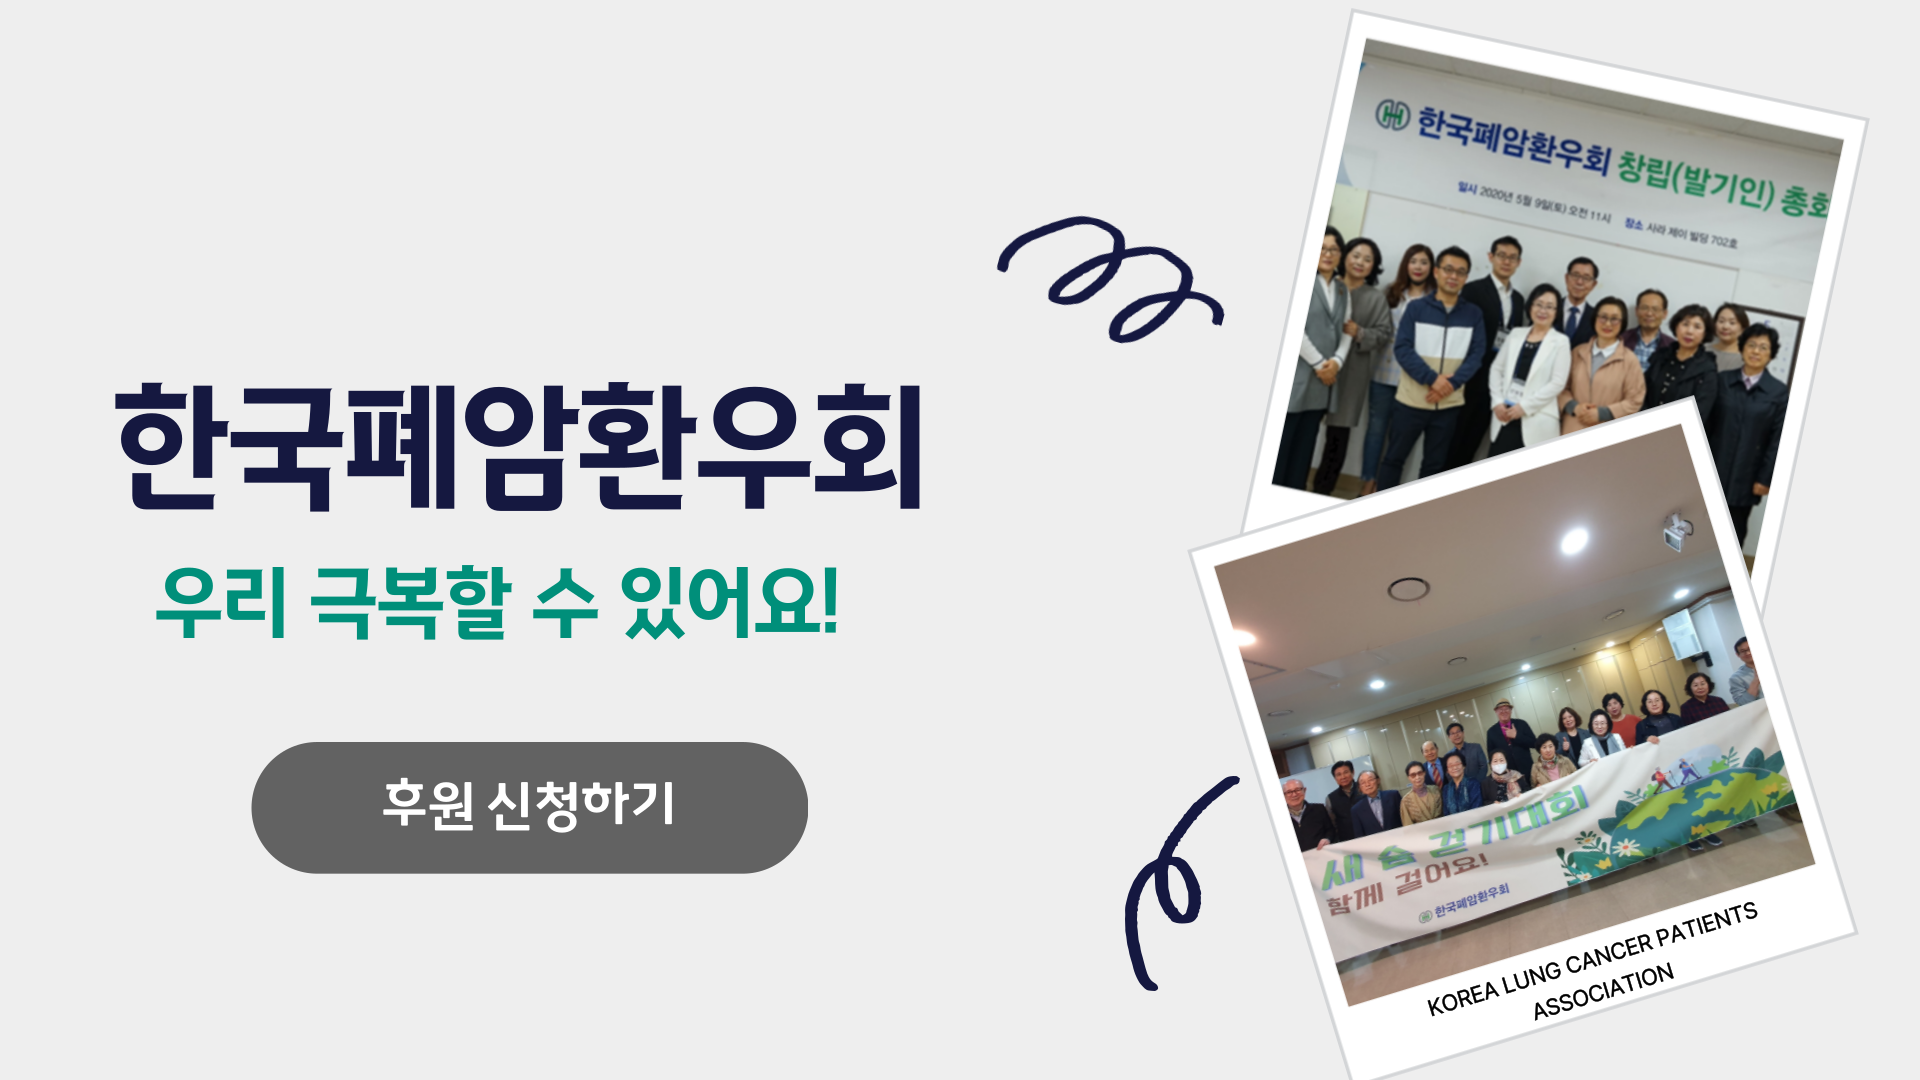
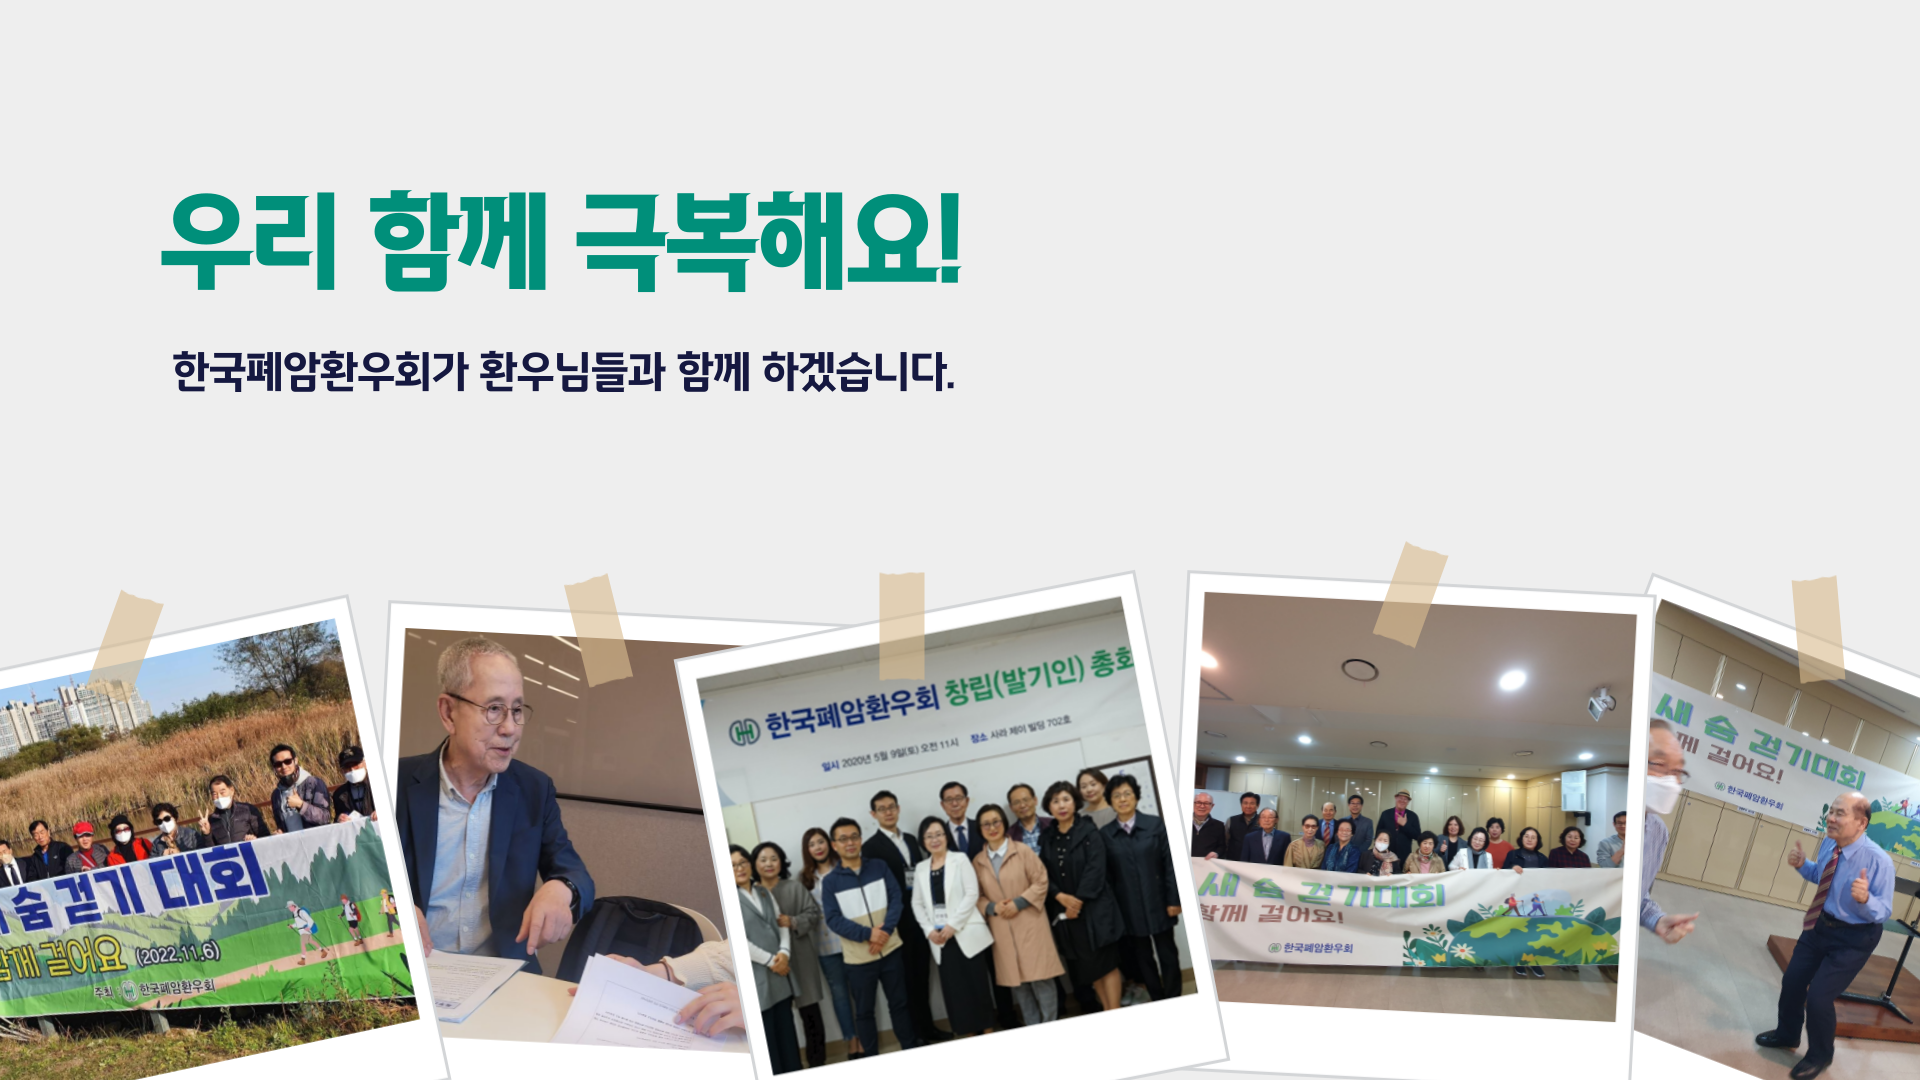
index에 상담하기 버튼 추가

diff --git a/CancerPatients/src/main/resources/templates/consult.html b/CancerPatients/src/main/resources/templates/consult.html
@@ -1,14 +1,15 @@
 <!DOCTYPE html>
-<html lang="ko">
+<html lang="ko" xmlns:th="http://www.thymeleaf.org">
 <head>
     <meta charset="UTF-8">
     <meta name="viewport" content="width=device-width, initial-scale=1.0">
     <link rel="stylesheet" href="https://cdn.jsdelivr.net/npm/bootstrap@5.3.0/dist/css/bootstrap.min.css">
     <link href="../resources/css/common.css" rel="stylesheet" />
-    <link href="../resources/css/index.css" rel="stylesheet" />
     <title>한국 폐암환우회</title>
+
 </head>
 <body>
+
 <div id="wrap">
     <nav class="navbar navbar-expand-sm">
         <div class="container-fluid">
@@ -69,52 +70,33 @@
     </nav>
     <div class="middle">
         <div class="sub_header">
-                <img src="../resources/images/index.png" class="index_img">
-                <div class="consult_outer">
-                    <a href="/consult">
-                        <img src="../resources/images/consult.png" class="consult_btn">
-                    </a>
+            <div class="sub_category">
+                <div class="sub_menu">
+                    <a href="/donation"><span class="sub_menu_text">후원 신청</span></a>
                 </div>
-            <div class="parent">
-                <p class="noti">공지사항</p>
-                <div class="first">[공지사항게시판들이 보여질 곳]</div>
-                <div class="second">[공지사항게시판들이 보여질 곳]</div>
-                <div class="third">[공지사항게시판들이 보여질 곳]</div>
+                <div class="sub_menu">
+                    <a href="/donation_manage"><span class="sub_menu_text">후원금 운영</span></a>
+                </div>
             </div>
 
         </div>
-        <div class="bottom_outer">
-            <div class="bottom_info">
-                <div class="outer">
-                    <img src="../resources/images/home.png" class="bottom_logo">
-                    <p class="keyword">주소</p>
-                    <p class="info">경기도 김포시 고촌읍 김포대로 340<br>1동 703호 (김포뉴시티)</p>
-                </div>
+        <div class="content_outer">
+            <div class="content">
+
+                상담 신청 페이지
 
 
-            </div>
-            <div class="bottom_info">
-                <div class="outer">
-                    <img src="../resources/images/phone.png" class="bottom_logo">
-                    <p class="keyword">전화</p>
-                    <p class="info">대표 : 010-4467-8275</p>
-                </div>
 
 
-            </div>
-            <div class="bottom_info">
-                <div class="outer">
-                    <img src="../resources/images/email.png" class="bottom_logo">
-                    <p class="keyword">메일</p>
-                    <p class="info">johnleee@naver.com</p>
-                </div>
 
             </div>
         </div>
+
     </div>
 </div>
 <footer>
     비영리법인 한국폐암환우회 | 고유번호 : 507- 82 -72452 | 주소 : 경기도 김포시 고촌읍 김포대로 340, 1동 703호 (김포뉴시티) | Tel : 010-4467-8275
 </footer>
+<script src="https://cdn.jsdelivr.net/npm/bootstrap@5.3.0/dist/js/bootstrap.bundle.min.js"></script>
 </body>
 </html>

diff --git a/CancerPatients/src/main/resources/static/css/index.css b/CancerPatients/src/main/resources/static/css/index.css
@@ -1,12 +1,12 @@
-.image_content{
-    background-color: #EFEFEF;
-    text-align: center;
-    width:100%;
-    height:50%;
-}
+/*.image_content{*/
+/*    background-color: #EFEFEF;*/
+/*    text-align: center;*/
+/*    width:100%;*/
+/*    height:50%;*/
+/*}*/
 
 .parent{
-    padding:2%;
+    padding:1%;
     height: 50vh;
 }
 
@@ -77,6 +77,14 @@
 }
 
 .index_img{
-    width:80%;
-    height:50%;
+    width:100%;
+}
+
+.consult_btn{
+    position: absolute;
+    top: 15%;
+    right: 8%;
+    width:30%;
+    height:7%;
+
 }

diff --git a/CancerPatients/src/main/java/com/example/cancerpatients/controller/HomeController.java b/CancerPatients/src/main/java/com/example/cancerpatients/controller/HomeController.java
@@ -32,6 +32,11 @@ public class HomeController {
     }
 
 
+    @GetMapping("/consult")
+    public String goConsult(){
+        return "consult";
+    }
+
     @GetMapping("/tree")
     public String gotree(){
         return "tree";
